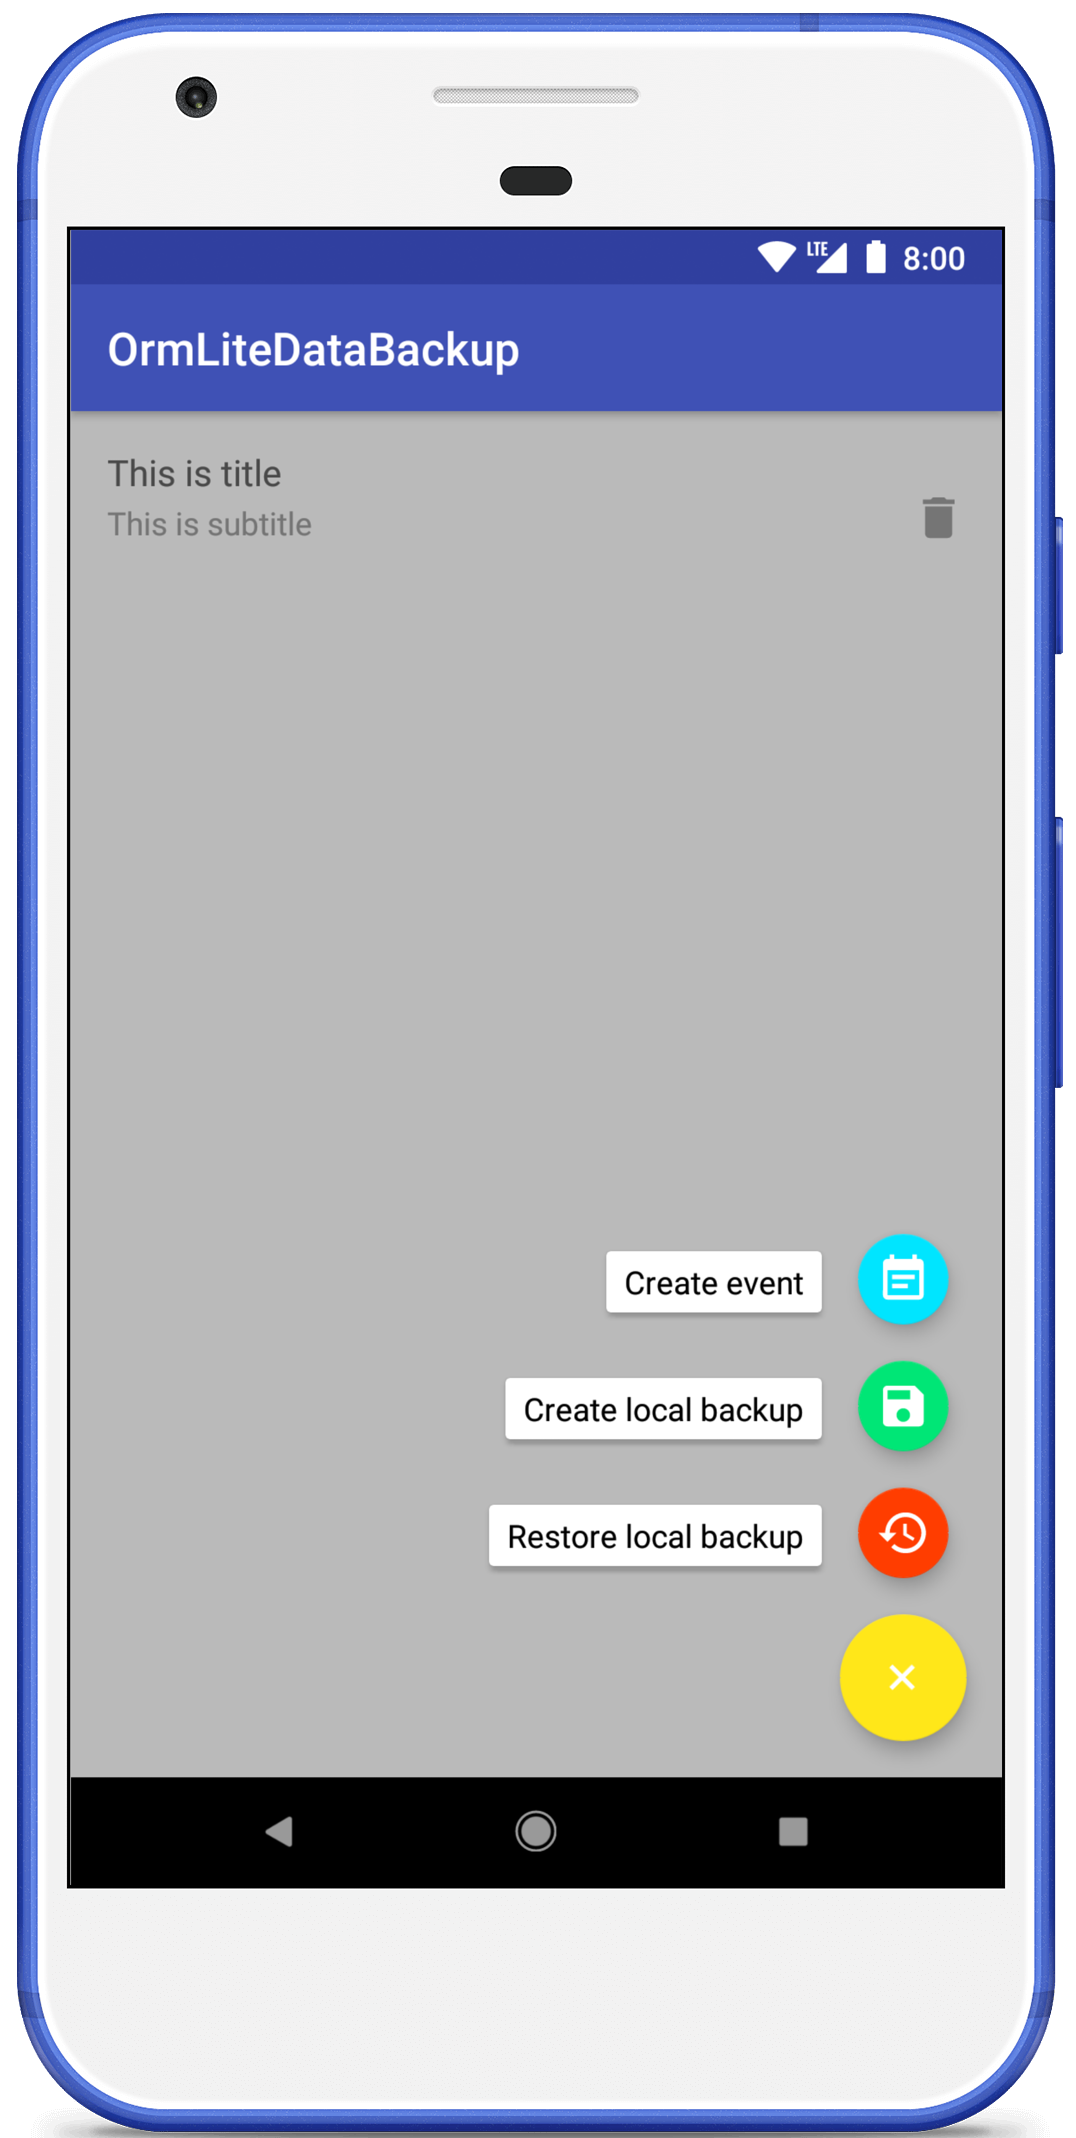
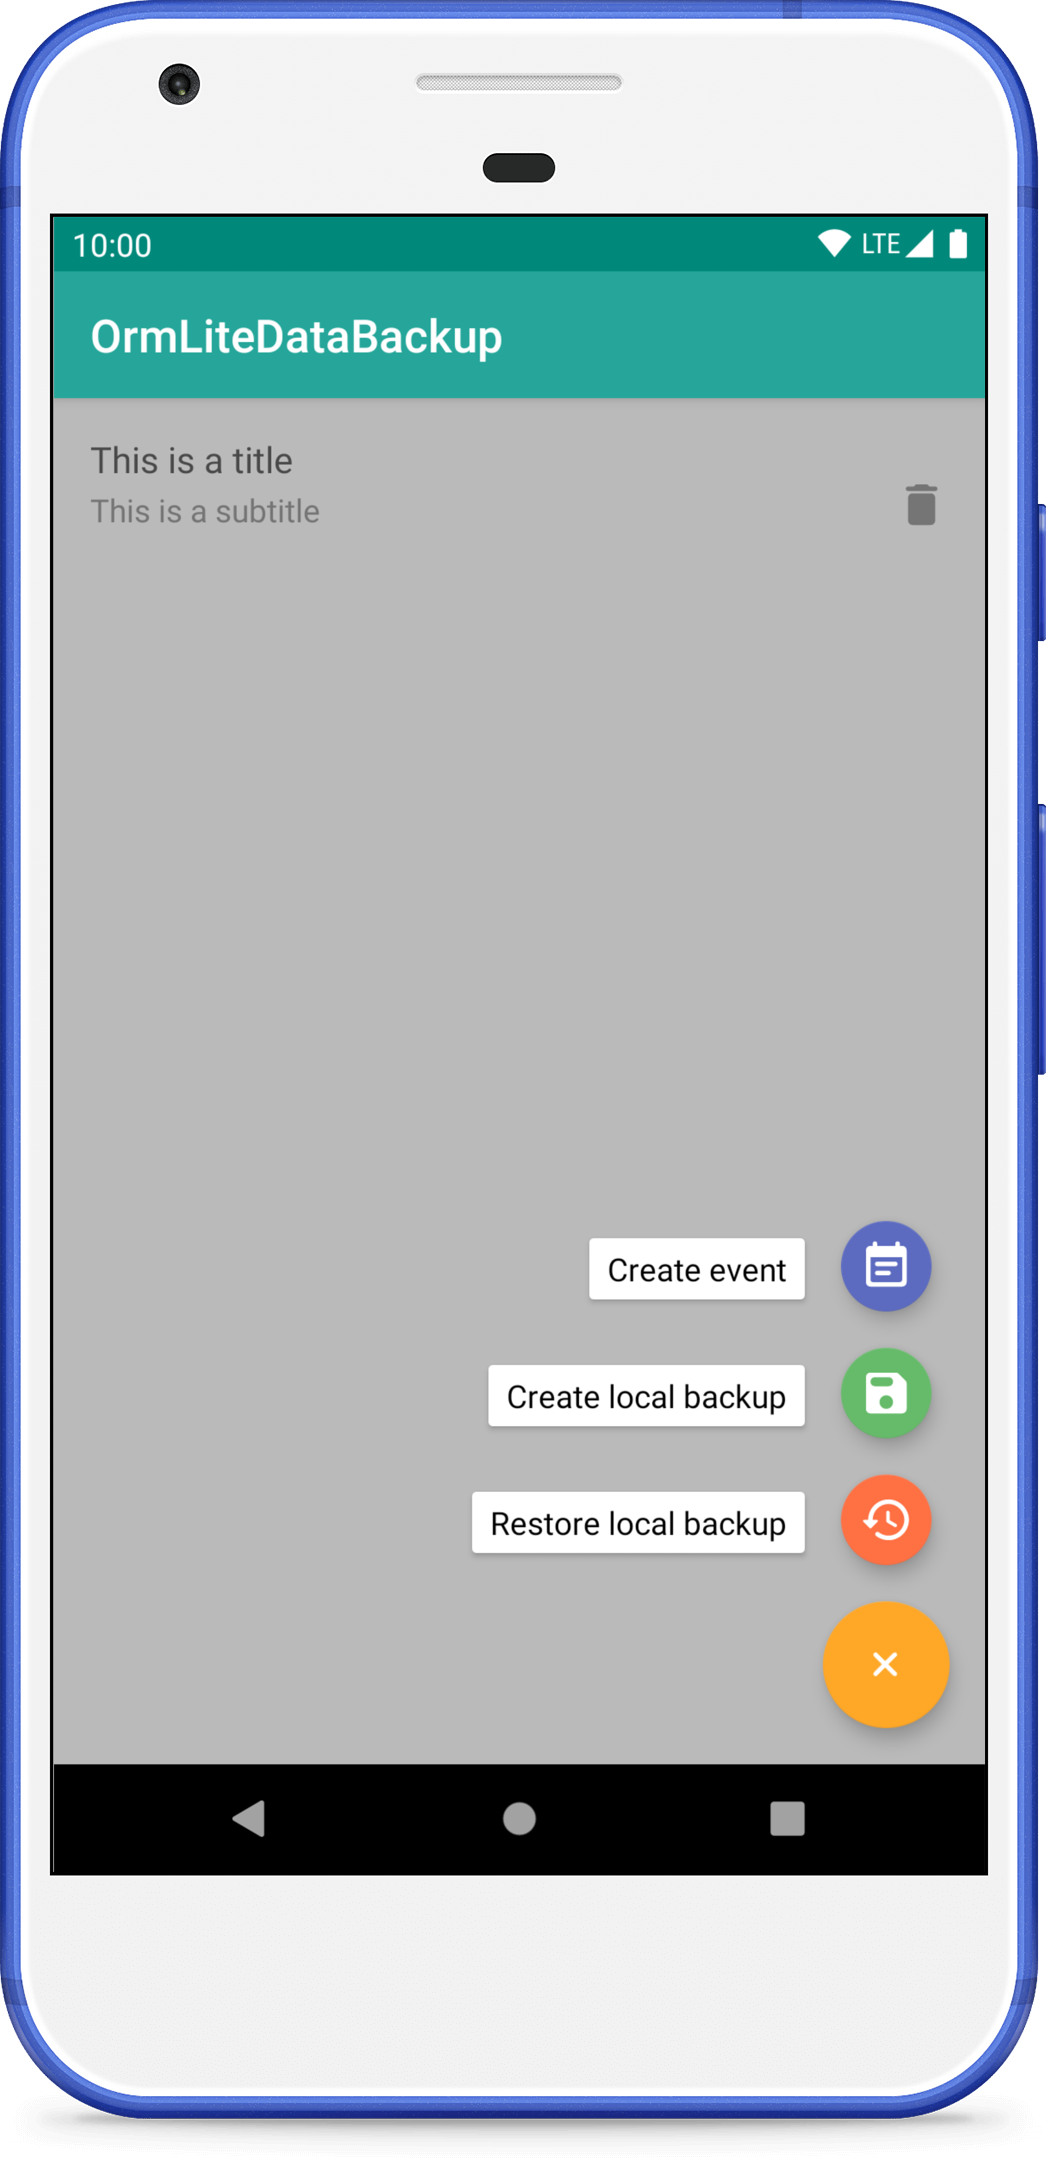
2020-03-15 Version 1.1.0: Fixed backup restore bug and updated app theme

Changed region(s): [[0.0, 0.0, 1.0, 1.0], [0.4283, 0.5557, 0.7648, 0.7409]]

diff --git a/app/src/main/java/com/smlnskgmail/jaman/ormlitedatabackup/MainActivity.java b/app/src/main/java/com/smlnskgmail/jaman/ormlitedatabackup/MainActivity.java
@@ -28,11 +28,12 @@ import com.smlnskgmail.jaman.ormlitedatabackup.logic.ormlite.entities.Event;
 
 import java.util.ArrayList;
 import java.util.List;
-import java.util.Objects;
 
 import jahirfiquitiva.libs.fabsmenu.FABsMenu;
 
 public class MainActivity extends BaseActivity implements EventCreateTarget {
+
+    private static final String CURRENT_FRAGMENT_TAG = "CURRENT_FRAGMENT_TAG";
 
     private static final int REQUEST_CODE_STORAGE = 101;
 
@@ -56,15 +57,15 @@ public class MainActivity extends BaseActivity implements EventCreateTarget {
 
         setClickToFABTitle(R.id.create_event, view -> {
             hideFab();
-            CreateEventBottomSheet createEventBottomSheet = new CreateEventBottomSheet();
-            createEventBottomSheet.show(
+            new CreateEventBottomSheet().show(
                     getSupportFragmentManager(),
-                    createEventBottomSheet.getClass().getName()
+                    CURRENT_FRAGMENT_TAG
             );
         });
         setClickToFABTitle(R.id.create_local_backup, view -> {
             hideFab();
-            if (Build.VERSION.SDK_INT >= Build.VERSION_CODES.M && !isStoragePermissionGranted()) {
+            if (Build.VERSION.SDK_INT >= Build.VERSION_CODES.M
+                    && !isStoragePermissionGranted()) {
                 requestStoragePermission();
             } else {
                 new CreateOrmLiteLocalBackupTask(
@@ -80,14 +81,18 @@ public class MainActivity extends BaseActivity implements EventCreateTarget {
         });
         setClickToFABTitle(R.id.restore_local_backup, view -> {
             hideFab();
-            if (Build.VERSION.SDK_INT >= Build.VERSION_CODES.M && !isStoragePermissionGranted()) {
+            if (Build.VERSION.SDK_INT >= Build.VERSION_CODES.M
+                    && !isStoragePermissionGranted()) {
                 requestStoragePermission();
             } else {
                 new RestoreOrmLiteLocalBackupTask(
                         MainActivity.this,
                         success -> ProcessPhoenix.triggerRebirth(
                                 this,
-                                new Intent(this, MainActivity.class)
+                                new Intent(
+                                        this,
+                                        MainActivity.class
+                                )
                         ),
                         localDatabasePath()
                 ).execute();
@@ -96,7 +101,8 @@ public class MainActivity extends BaseActivity implements EventCreateTarget {
     }
 
     private String localDatabasePath() {
-        OrmLiteDatabaseParameters parameters = OrmLiteHelperFactory.databaseParameters();
+        OrmLiteDatabaseParameters parameters
+                = OrmLiteHelperFactory.databaseParameters();
         return new OrmLiteLocalBackupPath(parameters).pathAsString();
     }
 
@@ -113,8 +119,10 @@ public class MainActivity extends BaseActivity implements EventCreateTarget {
 
     @SuppressWarnings("BooleanMethodIsAlwaysInverted")
     private boolean isStoragePermissionGranted() {
-        return ContextCompat.checkSelfPermission(this,
-                Manifest.permission.WRITE_EXTERNAL_STORAGE) == PackageManager.PERMISSION_GRANTED;
+        return ContextCompat.checkSelfPermission(
+                this,
+                Manifest.permission.WRITE_EXTERNAL_STORAGE
+        ) == PackageManager.PERMISSION_GRANTED;
     }
 
     @RequiresApi(api = Build.VERSION_CODES.M)
@@ -139,7 +147,8 @@ public class MainActivity extends BaseActivity implements EventCreateTarget {
         );
         if (requestCode == REQUEST_CODE_STORAGE) {
             int snackbarMessageResId;
-            if (grantResults.length > 0 && grantResults[0] == PackageManager.PERMISSION_GRANTED) {
+            if (grantResults.length > 0
+                    && grantResults[0] == PackageManager.PERMISSION_GRANTED) {
                 snackbarMessageResId = R.string.request_storage_permission_status_granted;
             } else {
                 if (shouldShowRequestPermissionRationale(Manifest.permission.WRITE_EXTERNAL_STORAGE)) {
@@ -164,8 +173,7 @@ public class MainActivity extends BaseActivity implements EventCreateTarget {
         OrmLiteHelperFactory.databaseHelper().saveEvent(event);
         events.add(event);
 
-        Objects.requireNonNull(eventsList.getAdapter())
-                .notifyItemInserted(events.size() - 1);
+        eventsList.getAdapter().notifyItemInserted(events.size() - 1);
     }
 
     private void loadEvents() {

diff --git a/app/src/main/java/com/smlnskgmail/jaman/ormlitedatabackup/logic/ormlite/backup/tasks/restore/RestoreOrmLiteLocalBackupTask.java b/app/src/main/java/com/smlnskgmail/jaman/ormlitedatabackup/logic/ormlite/backup/tasks/restore/RestoreOrmLiteLocalBackupTask.java
@@ -34,25 +34,26 @@ public class RestoreOrmLiteLocalBackupTask extends AsyncTask<Void, Void, Boolean
     @SuppressWarnings("ResultOfMethodCallIgnored")
     @Override
     protected Boolean doInBackground(Void... voids) {
-        OrmLiteDatabaseParameters parameters = OrmLiteHelperFactory.databaseParameters();
-        String databasePath = parameters.databasePath();
+        OrmLiteDatabaseParameters parameters
+                = OrmLiteHelperFactory.databaseParameters();
+        String tempDatabase = parameters.databaseFolder() + "/temp.db";
 
         boolean success = new FileCopy(
                 context,
                 backupPath,
-                databasePath
+                tempDatabase
         ).copy();
         if (success) {
             boolean isValidDB = new OrmLiteBackupCheck(
                     context,
-                    databasePath
+                    tempDatabase
             ).isValidDB();
             if (isValidDB) {
                 if (context.deleteDatabase(parameters.databaseName())) {
-                    File originalDatabase = new File(databasePath);
-                    // https://stackoverflow.com/questions/14651567/java-file-renameto
+                    File originalDatabase = new File(parameters.databasePath());
+                    // https:/d/stackoverflow.com/questions/14651567/java-file-renameto
                     // -does-rename-file-but-returns-false-why
-                    new File(databasePath).renameTo(originalDatabase);
+                    new File(tempDatabase).renameTo(originalDatabase);
                     return true;
                 } else {
                     return false;

diff --git a/app/src/androidTest/java/com/smlnskgmail/jaman/ormlitedatabackup/runner/AndroidJacocoTestRunner.java b/app/src/androidTest/java/com/smlnskgmail/jaman/ormlitedatabackup/runner/AndroidJacocoTestRunner.java
@@ -1,13 +1,12 @@
 package com.smlnskgmail.jaman.ormlitedatabackup.runner;
 
 import android.os.Bundle;
-import android.util.Log;
 
 import androidx.test.runner.AndroidJUnitRunner;
 
-import java.io.IOException;
+import com.smlnskgmail.jaman.ormlitedatabackup.logic.support.L;
+
 import java.lang.reflect.Method;
-import java.nio.charset.Charset;
 
 public class AndroidJacocoTestRunner extends AndroidJUnitRunner {
 
@@ -15,6 +14,8 @@ public class AndroidJacocoTestRunner extends AndroidJUnitRunner {
     public void finish(int resultCode, Bundle results) {
         try {
             Class rt = Class.forName("org.jacoco.agent.rt.RT");
+
+            @SuppressWarnings("unchecked")
             Method getAgent = rt.getMethod("getAgent");
             Method dump = getAgent.getReturnType().getMethod(
                     "dump",
@@ -23,16 +24,7 @@ public class AndroidJacocoTestRunner extends AndroidJUnitRunner {
             Object agent = getAgent.invoke(null);
             dump.invoke(agent, false);
         } catch (Throwable e) {
-            final String trace = Log.getStackTraceString(e);
-            try {
-                System.out.write(
-                        trace.getBytes(
-                                Charset.forName("UTF-8")
-                        )
-                );
-            } catch (IOException ignored) {
-
-            }
+            L.e(e);
         }
         super.finish(resultCode, results);
     }

diff --git a/app/src/main/java/com/smlnskgmail/jaman/ormlitedatabackup/logic/event/list/EventsAdapter.java b/app/src/main/java/com/smlnskgmail/jaman/ormlitedatabackup/logic/event/list/EventsAdapter.java
@@ -12,7 +12,7 @@ import com.smlnskgmail.jaman.ormlitedatabackup.logic.ormlite.entities.Event;
 
 import java.util.List;
 
-public class EventsAdapter extends RecyclerView.Adapter<EventHolder> implements EventHolder.EventDeleteTarget {
+public class EventsAdapter extends RecyclerView.Adapter<EventHolder> implements EventDeleteTarget {
 
     private final List<Event> events;
 
@@ -22,17 +22,25 @@ public class EventsAdapter extends RecyclerView.Adapter<EventHolder> implements 
 
     @NonNull
     @Override
-    public EventHolder onCreateViewHolder(@NonNull ViewGroup parent, int viewType) {
+    public EventHolder onCreateViewHolder(
+            @NonNull ViewGroup parent,
+            int viewType
+    ) {
         return new EventHolder(LayoutInflater.from(parent.getContext())
                 .inflate(
                         R.layout.item_event,
                         parent,
                         false
-                ), this);
+                ),
+                this
+        );
     }
 
     @Override
-    public void onBindViewHolder(@NonNull EventHolder holder, int position) {
+    public void onBindViewHolder(
+            @NonNull EventHolder holder,
+            int position
+    ) {
         holder.bind(events.get(position));
     }
 

diff --git a/app/src/main/java/com/smlnskgmail/jaman/ormlitedatabackup/logic/ormlite/backup/FileCopy.java b/app/src/main/java/com/smlnskgmail/jaman/ormlitedatabackup/logic/ormlite/backup/FileCopy.java
@@ -5,7 +5,7 @@ import android.net.Uri;
 
 import androidx.annotation.NonNull;
 
-import com.smlnskgmail.jaman.ormlitedatabackup.tools.L;
+import com.smlnskgmail.jaman.ormlitedatabackup.logic.support.L;
 
 import java.io.File;
 import java.io.FileOutputStream;
@@ -49,7 +49,9 @@ public class FileCopy {
         try {
             inputStream = fromAsStream != null
                     ? fromAsStream
-                    : context.getContentResolver().openInputStream(Uri.fromFile(new File(from))
+                    : context.getContentResolver().openInputStream(
+                            Uri.fromFile(new File(from)
+                    )
             );
             File toFile = new File(to);
             if (toFile.exists()) {
@@ -65,9 +67,12 @@ public class FileCopy {
             byte[] buffer = new byte[1024];
             int length;
             while ((length = inputStream.read(buffer)) > 0) {
-                outputStream.write(buffer, 0, length);
+                outputStream.write(
+                        buffer,
+                        0,
+                        length
+                );
             }
-
             outputStream.flush();
             return true;
         } catch (Exception e) {

diff --git a/app/src/main/java/com/smlnskgmail/jaman/ormlitedatabackup/logic/ormlite/backup/tasks/create/CreateOrmLiteLocalBackupTask.java b/app/src/main/java/com/smlnskgmail/jaman/ormlitedatabackup/logic/ormlite/backup/tasks/create/CreateOrmLiteLocalBackupTask.java
@@ -11,7 +11,7 @@ import com.smlnskgmail.jaman.ormlitedatabackup.logic.ormlite.OrmLiteDatabasePara
 import com.smlnskgmail.jaman.ormlitedatabackup.logic.ormlite.OrmLiteHelperFactory;
 import com.smlnskgmail.jaman.ormlitedatabackup.logic.ormlite.backup.FileCopy;
 import com.smlnskgmail.jaman.ormlitedatabackup.logic.ormlite.backup.OrmLiteLocalBackupPath;
-import com.smlnskgmail.jaman.ormlitedatabackup.tools.L;
+import com.smlnskgmail.jaman.ormlitedatabackup.logic.support.L;
 
 public class CreateOrmLiteLocalBackupTask extends AsyncTask<Void, Void, Boolean> {
 
@@ -30,7 +30,8 @@ public class CreateOrmLiteLocalBackupTask extends AsyncTask<Void, Void, Boolean>
     @Override
     protected Boolean doInBackground(Void... voids) {
         checkpoint();
-        OrmLiteDatabaseParameters parameters = OrmLiteHelperFactory.databaseParameters();
+        OrmLiteDatabaseParameters parameters
+                = OrmLiteHelperFactory.databaseParameters();
         String from = parameters.databasePath();
         String to = new OrmLiteLocalBackupPath(parameters).pathAsString();
         return new FileCopy(

diff --git a/app/src/androidTest/java/com/smlnskgmail/jaman/ormlitedatabackup/backup/CreateOrmLiteLocalBackupTaskTest.java b/app/src/androidTest/java/com/smlnskgmail/jaman/ormlitedatabackup/backup/CreateOrmLiteLocalBackupTaskTest.java
@@ -48,8 +48,9 @@ public class CreateOrmLiteLocalBackupTaskTest {
 
     @Test
     public void createLocalBackup() throws InterruptedException {
-        CreateOrmLiteLocalBackupTask createOrmLiteLocalBackupTask = new CreateOrmLiteLocalBackupTask(
-                context,
+        CreateOrmLiteLocalBackupTask createOrmLiteLocalBackupTask
+                = new CreateOrmLiteLocalBackupTask(
+                        context,
                 result -> countDownLatch.countDown()
         );
         createOrmLiteLocalBackupTask.execute();
@@ -60,8 +61,9 @@ public class CreateOrmLiteLocalBackupTaskTest {
     }
 
     private File localBackupFile() {
-        OrmLiteLocalBackupPath ormLiteLocalBackupPath = new OrmLiteLocalBackupPath(
-                OrmLiteHelperFactory.databaseParameters()
+        OrmLiteLocalBackupPath ormLiteLocalBackupPath
+                = new OrmLiteLocalBackupPath(
+                        OrmLiteHelperFactory.databaseParameters()
         );
         return new File(ormLiteLocalBackupPath.pathAsString());
     }

diff --git a/app/src/main/java/com/smlnskgmail/jaman/ormlitedatabackup/logic/event/list/EventHolder.java b/app/src/main/java/com/smlnskgmail/jaman/ormlitedatabackup/logic/event/list/EventHolder.java
@@ -19,13 +19,16 @@ public class EventHolder extends RecyclerView.ViewHolder {
 
     private final EventDeleteTarget eventDeleteTarget;
 
-    EventHolder(@NonNull View itemView, @NonNull EventDeleteTarget eventDeleteTarget) {
+    EventHolder(
+            @NonNull View itemView,
+            @NonNull EventDeleteTarget eventDeleteTarget
+    ) {
         super(itemView);
+        this.eventDeleteTarget = eventDeleteTarget;
+
         title = itemView.findViewById(R.id.event_title);
         subtitle = itemView.findViewById(R.id.event_subtitle);
         delete = itemView.findViewById(R.id.event_delete);
-
-        this.eventDeleteTarget = eventDeleteTarget;
     }
 
     void bind(@NonNull Event event) {
@@ -33,12 +36,6 @@ public class EventHolder extends RecyclerView.ViewHolder {
         subtitle.setText(event.subtitle());
 
         delete.setOnClickListener(view -> eventDeleteTarget.eventDeleted(event));
-    }
-
-    public interface EventDeleteTarget {
-
-        void eventDeleted(@NonNull Event event);
-
     }
 
 }

diff --git a/app/src/main/java/com/smlnskgmail/jaman/ormlitedatabackup/logic/ormlite/entities/Event.java b/app/src/main/java/com/smlnskgmail/jaman/ormlitedatabackup/logic/ormlite/entities/Event.java
@@ -69,14 +69,18 @@ public class Event extends EntityWithId {
             return false;
         }
         Event event = (Event) o;
-        return title.equals(event.title)
-                && subtitle.equals(event.subtitle)
-                && date.equals(event.date);
+        return Objects.equals(title, event.title)
+                && Objects.equals(subtitle, event.subtitle)
+                && Objects.equals(date, event.date);
     }
 
     @Override
     public int hashCode() {
-        return Objects.hash(title, subtitle, date);
+        return Objects.hash(
+                title,
+                subtitle,
+                date
+        );
     }
 
 }

diff --git a/app/src/main/java/com/smlnskgmail/jaman/ormlitedatabackup/logic/ormlite/backup/OrmLiteLocalBackupPath.java b/app/src/main/java/com/smlnskgmail/jaman/ormlitedatabackup/logic/ormlite/backup/OrmLiteLocalBackupPath.java
@@ -16,8 +16,13 @@ public class OrmLiteLocalBackupPath {
 
     public String pathAsString() {
         String databaseName = parameters.databaseName();
-        String backupFileName = databaseName.substring(0, databaseName.indexOf(".")) + ".backup";
-        return Environment.getExternalStorageDirectory() + "/OrmLiteDataBackup/" + backupFileName;
+        String backupFileName = databaseName.substring(
+                0,
+                databaseName.indexOf(".")
+        ) + ".backup";
+        return Environment.getExternalStorageDirectory()
+                + "/OrmLiteDataBackup/"
+                + backupFileName;
     }
 
 }

diff --git a/app/src/androidTest/java/com/smlnskgmail/jaman/ormlitedatabackup/ui/CreateEventTest.java b/app/src/androidTest/java/com/smlnskgmail/jaman/ormlitedatabackup/ui/CreateEventTest.java
@@ -8,7 +8,7 @@ import com.smlnskgmail.jaman.ormlitedatabackup.MainActivity;
 import com.smlnskgmail.jaman.ormlitedatabackup.R;
 import com.smlnskgmail.jaman.ormlitedatabackup.logic.ormlite.OrmLiteHelperFactory;
 import com.smlnskgmail.jaman.ormlitedatabackup.logic.ormlite.entities.Event;
-import com.smlnskgmail.jaman.ormlitedatabackup.tools.L;
+import com.smlnskgmail.jaman.ormlitedatabackup.logic.support.L;
 import com.smlnskgmail.jaman.ormlitedatabackup.ui.utils.ViewChildClick;
 
 import org.junit.Before;

diff --git a/app/src/androidTest/java/com/smlnskgmail/jaman/ormlitedatabackup/backup/OrmLiteBackupCheckTest.java b/app/src/androidTest/java/com/smlnskgmail/jaman/ormlitedatabackup/backup/OrmLiteBackupCheckTest.java
@@ -44,7 +44,9 @@ public class OrmLiteBackupCheckTest {
     private void copyBackupFileToAppFolder(boolean isValid) throws IOException {
         String backupFolder = isValid ? "valid" : "invalid";
         InputStream backupFile = context.getResources().getAssets().open(
-                "backups/" + backupFolder + "/ormlite.backup"
+                "backups/"
+                        + backupFolder
+                        + "/ormlite.backup"
         );
 
         new FileCopy(
